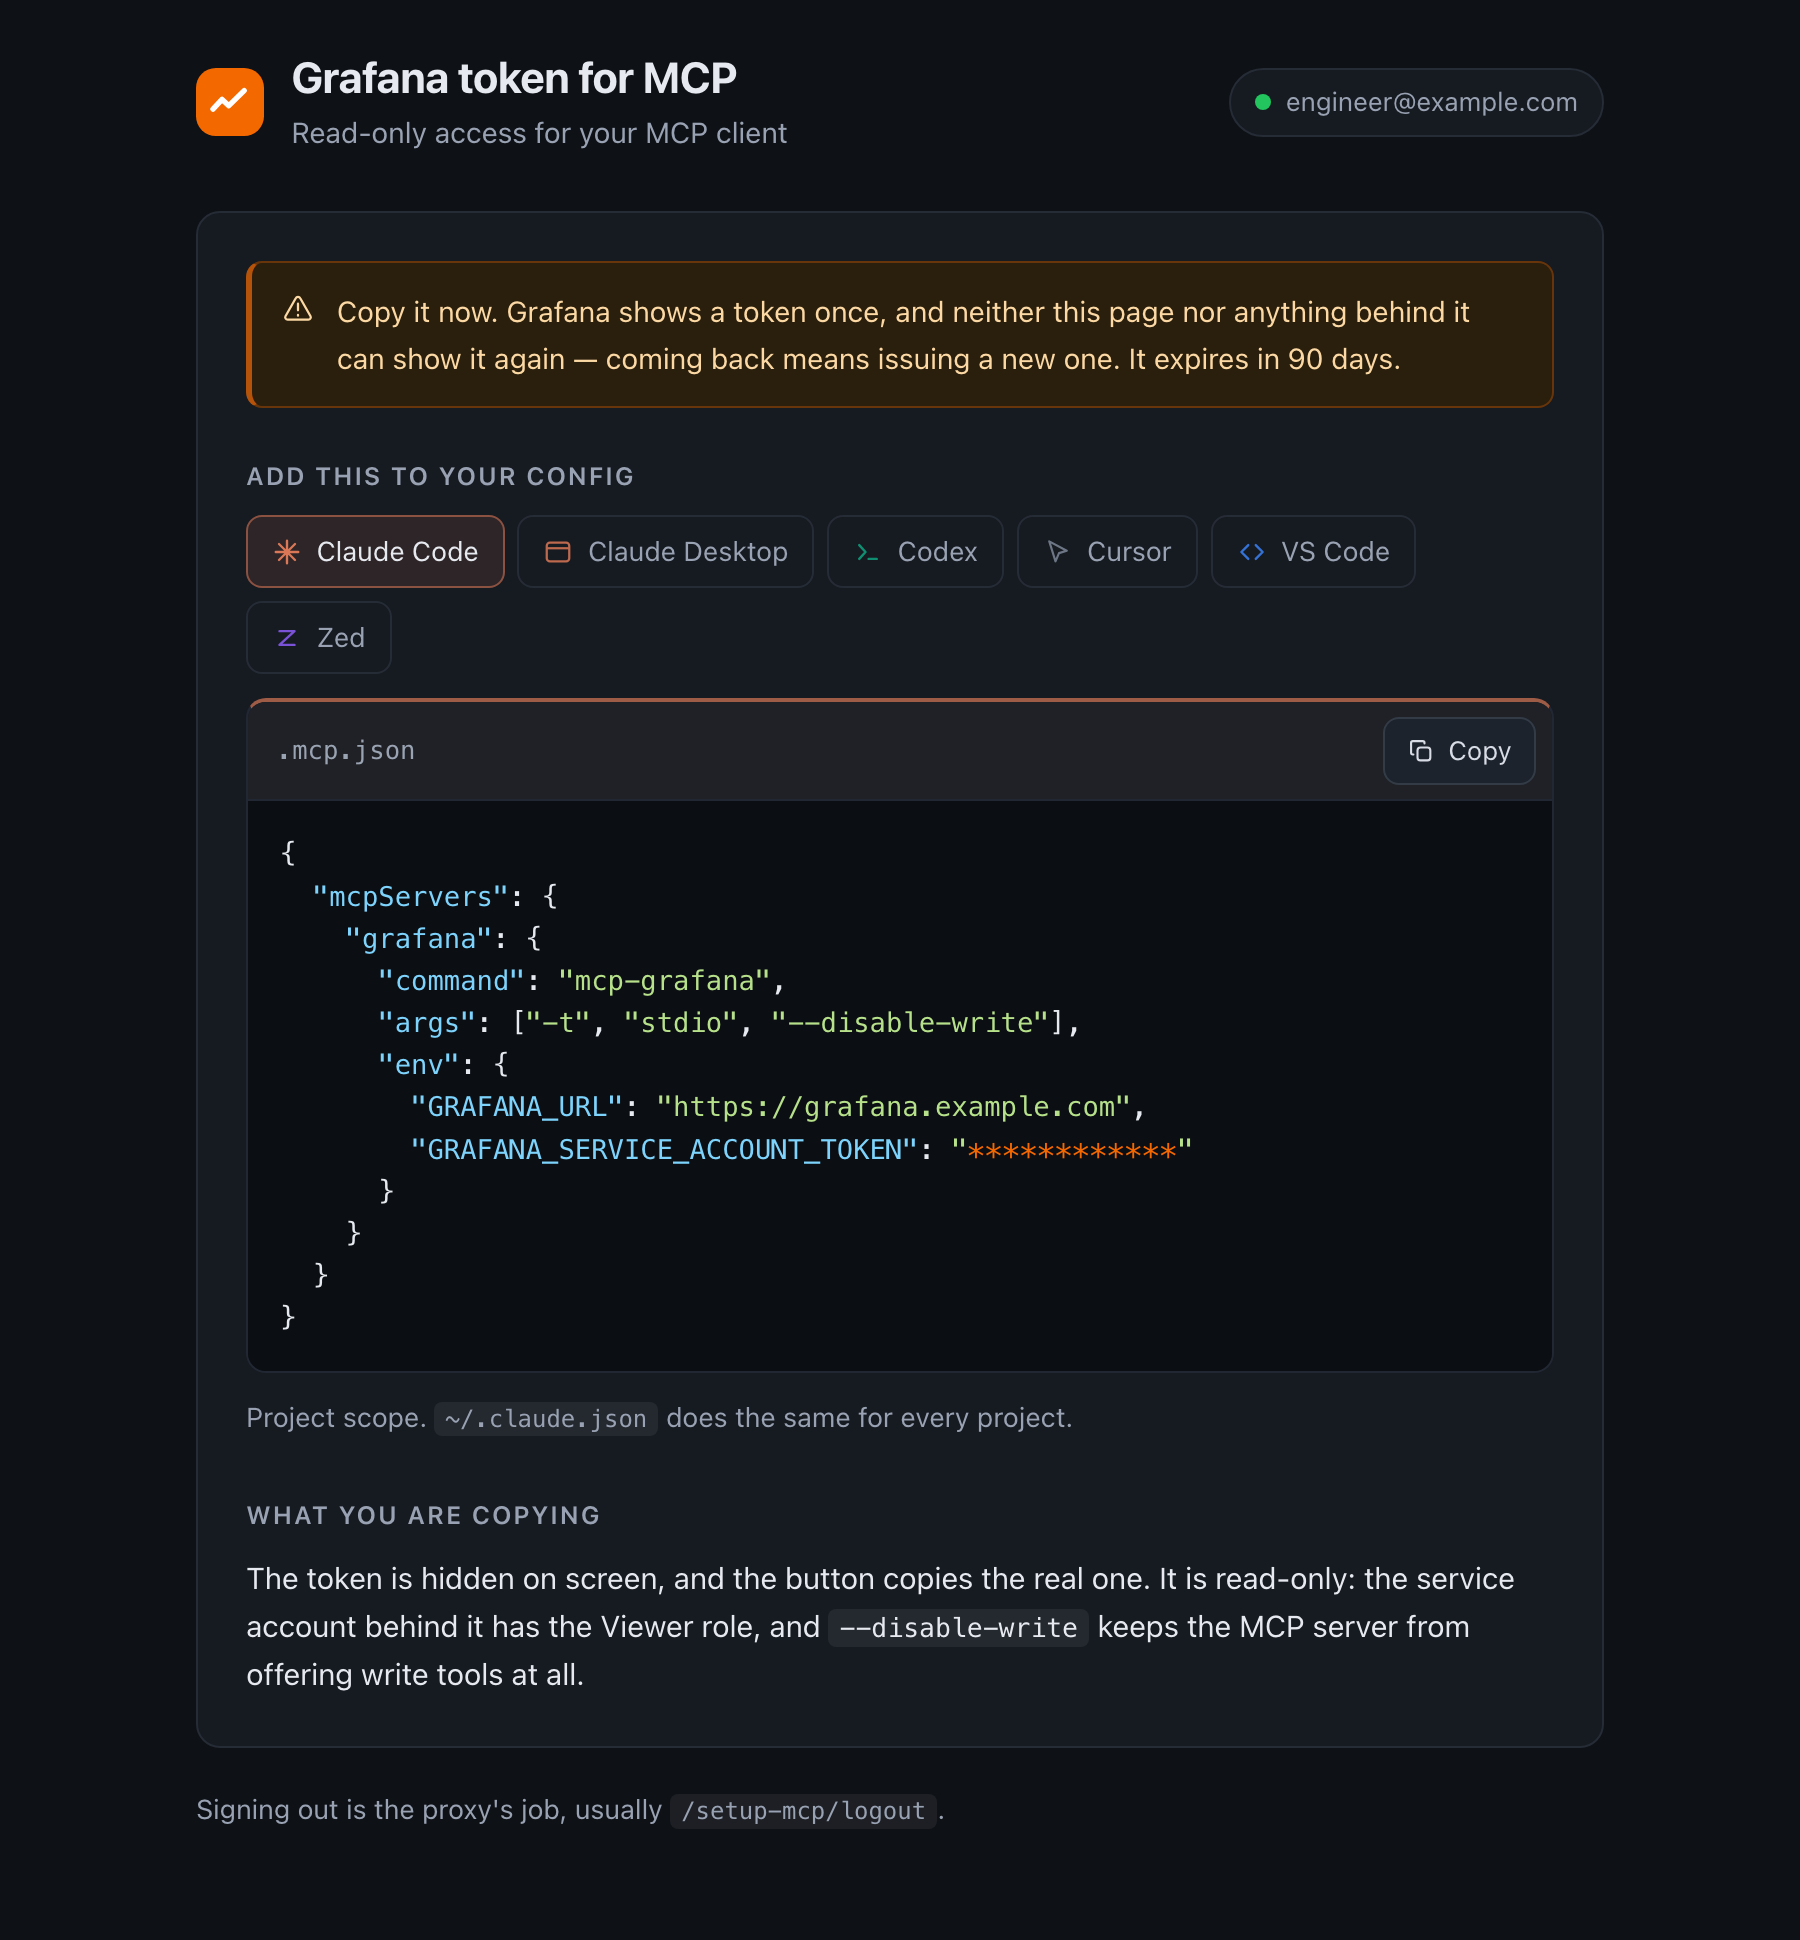
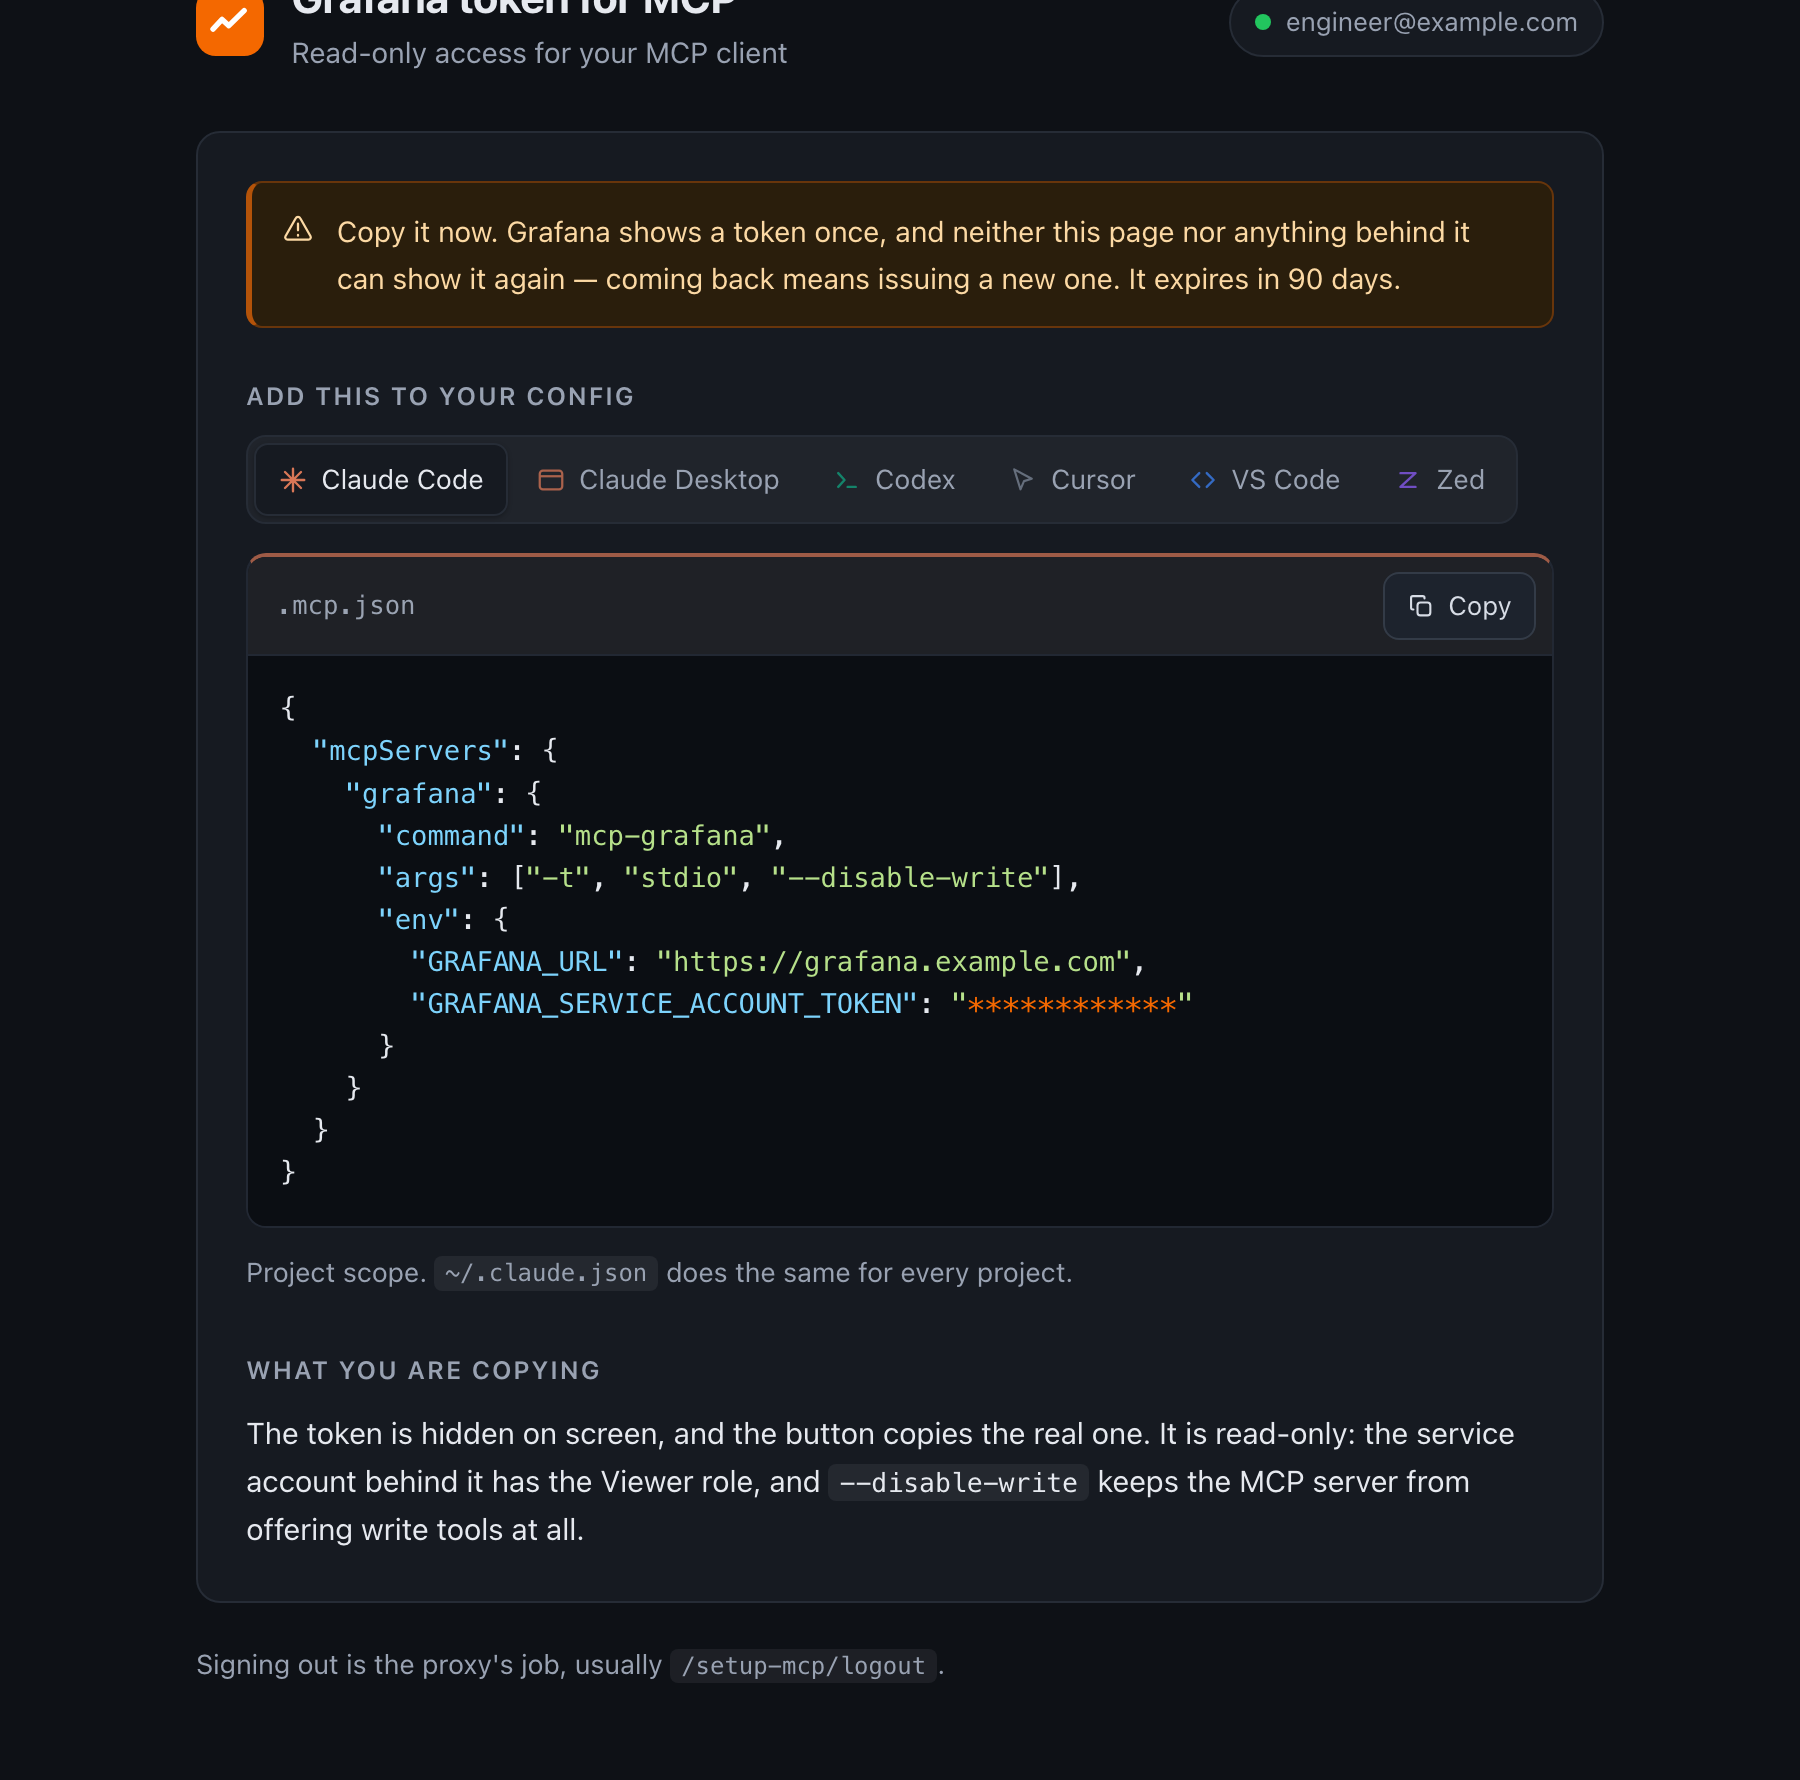
Make the client picker one control (#12)
Six outlined buttons in a row read as six things to decide between. The same
six inside a tray, with the active one raised out of it, read as one control
that currently says Claude Code — which is what it is.

Only the styling changes: same markup, same script, same tests.

diff --git a/internal/server/page.go b/internal/server/page.go
@@ -161,22 +161,26 @@ var page = template.Must(template.New("page").Parse(`<!doctype html>
 
   /* Tabs -------------------------------------------------------------- */
 
+  /* One control rather than six buttons: a tray with the segments inside it,
+     and the active one raised out of the tray. */
   .tabs {
-    display: flex; flex-wrap: wrap; gap: .4rem;
-    margin-bottom: .75rem;
+    display: inline-flex; flex-wrap: wrap; gap: 2px;
+    margin-bottom: .9rem; padding: 3px;
+    border: 1px solid var(--line); border-radius: 10px;
+    background: color-mix(in srgb, var(--ink) 5%, var(--card));
   }
   .tab {
-    display: inline-flex; align-items: center; gap: .45rem;
-    padding: .4rem .75rem; font-size: .85rem;
-    border: 1px solid var(--line); border-radius: 8px;
-    background: var(--card); color: var(--muted);
+    display: inline-flex; align-items: center; gap: .4rem;
+    padding: .4rem .7rem; font-size: .85rem;
+    border: 1px solid transparent; border-radius: 7px;
+    background: transparent; color: var(--muted);
   }
-  .tab svg { color: var(--client, var(--muted)); opacity: .85; }
+  .tab svg { color: var(--client, var(--muted)); opacity: .75; }
   .tab:hover { color: var(--ink); }
   .tab.on {
-    color: var(--ink);
-    border-color: color-mix(in srgb, var(--client, var(--accent)) 55%, transparent);
-    background: color-mix(in srgb, var(--client, var(--accent)) 12%, var(--card));
+    color: var(--ink); background: var(--card);
+    border-color: var(--line);
+    box-shadow: 0 1px 2px rgba(0, 0, 0, .25);
   }
   .tab.on svg { opacity: 1; }
 
